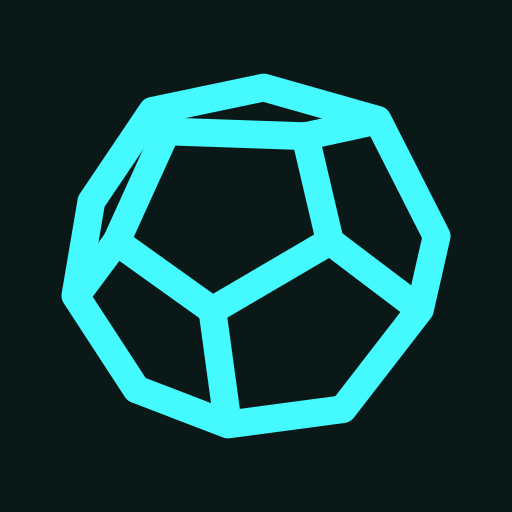
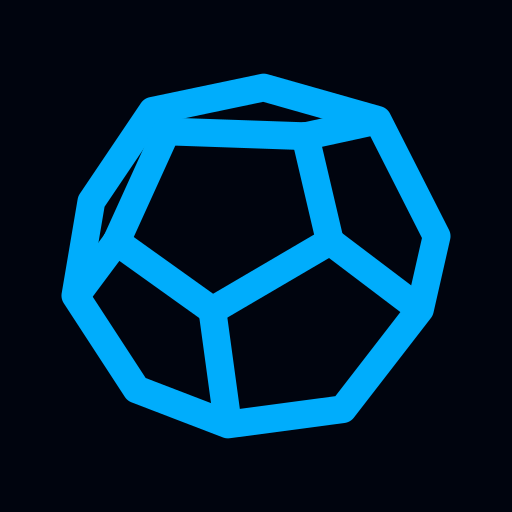
bolder: widen type scale, uppercase section labels, and amplify visual hierarchy
Add --font-xl (1.4rem) and --weight-semibold (600) tokens to stretch the
type scale from a 1.83x to 2.33x ratio. Page headings and modal titles
use --font-xl for clear structural hierarchy. Section labels (SideMenuSection,
Accordion, danger zone) use an uppercase overline treatment for visual
landmarks. Default theme shifts from cyan to sky blue to better reflect
the game's identity. Toast notifications gain status icons and a distinct
negative entrance animation. Node maxed state gets a secondary ring flash.
Tree canvas gains a subtle dot grid for spatial grounding.

Changed region(s): [[0.0938, 0.125, 0.9062, 0.875]]

diff --git a/src/lib/Toasts.svelte b/src/lib/Toasts.svelte
@@ -1,7 +1,9 @@
 <script lang="ts">
     import { onDestroy } from "svelte";
+    import { fly } from "svelte/transition";
     import { dismissToast, toastStore, type Toast } from "./toast";
     import { triggerHaptic } from "./hapticsStore";
+    import { CheckCircleIcon, WarningCircleIcon } from "phosphor-svelte";
 
     const timeouts = new Map<string, number>();
 
@@ -46,6 +48,7 @@
             style="--toast-duration: {toast.durationMs}ms"
             role="button"
             tabindex="0"
+            out:fly={{ y: 8, duration: 150 }}
             on:click={() => {
                 triggerHaptic();
                 dismissToast(toast.id);
@@ -57,6 +60,13 @@
                 }
             }}
         >
+            <span class="toast__icon" aria-hidden="true">
+                {#if toast.tone === "negative"}
+                    <WarningCircleIcon size={20} weight="fill" />
+                {:else}
+                    <CheckCircleIcon size={20} weight="fill" />
+                {/if}
+            </span>
             <span class="toast__message">{toast.message}</span>
         </div>
     {/each}
@@ -85,7 +95,7 @@
         pointer-events: auto;
         display: flex;
         align-items: center;
-        gap: var(--spacing-lg);
+        gap: var(--spacing-md);
         padding: var(--spacing-lg) calc(var(--spacing-lg) + var(--spacing-md));
         max-width: min(
             calc(100vw - 2 * var(--bar-pad) - var(--safe-left, 0px) - var(--safe-right, 0px)),
@@ -110,6 +120,8 @@
         background: var(--danger-bg);
         border-color: var(--danger-border);
         color: var(--danger-text);
+        animation-name: toast-enter-negative;
+        animation-duration: 0.2s;
     }
 
     .toast::after {
@@ -126,6 +138,17 @@
 
     .toast--negative::after {
         background: var(--danger-border);
+    }
+
+    .toast__icon {
+        display: flex;
+        align-items: center;
+        flex-shrink: 0;
+        color: var(--accent);
+    }
+
+    .toast--negative .toast__icon {
+        color: var(--danger-text);
     }
 
     .toast__message {

diff --git a/src/lib/NodeFlash.svelte b/src/lib/NodeFlash.svelte
@@ -1,11 +1,14 @@
 <script lang="ts">
     export let level: number;
     export let isLeaf: boolean = false;
+    export let isMaxed: boolean = false;
 
     let flashKey = 0;
     let prevLevel = level;
+    let justMaxed = false;
 
     $: if (level !== prevLevel) {
+        justMaxed = isMaxed && !justMaxed && level > prevLevel;
         prevLevel = level;
         flashKey++;
     }
@@ -15,6 +18,9 @@
     {#if flashKey > 0}
         <span class="node-flash" class:node-flash-hex={isLeaf}></span>
         <span class="node-ring" class:node-ring-hex={isLeaf}></span>
+        {#if justMaxed}
+            <span class="node-ring node-ring-outer" class:node-ring-hex={isLeaf}></span>
+        {/if}
     {/if}
 {/key}
 
@@ -70,6 +76,26 @@
         100% {
             opacity: 0;
             inset: -10px;
+        }
+    }
+
+    .node-ring-outer {
+        animation: node-ring-outer-expand 550ms ease-out 80ms forwards;
+        opacity: 0;
+    }
+
+    @keyframes node-ring-outer-expand {
+        0% {
+            opacity: 0.5;
+            inset: -2px;
+        }
+        50% {
+            opacity: 0.25;
+            inset: -20px;
+        }
+        100% {
+            opacity: 0;
+            inset: -18px;
         }
     }
 </style>

diff --git a/scripts/theme-defaults.ts b/scripts/theme-defaults.ts
@@ -1,16 +1,16 @@
 /**
- * Pre-computed theme colors for the default preset (Cyan: #44faff, h=198, c=0.14, l=0.9).
+ * Pre-computed theme colors for the default preset (Sky: #00adfc, h=234, c=0.18).
  * Used by static assets that can't call the runtime theme engine.
  *
- * THEME_BG: oklchToHex(BG_L*0.5 + SURFACE_L*0.5, c*0.14, h)
+ * THEME_BG: oklchToHex(0.10, max(c*0.22, 0.03), h)
  * - Used in index.html: <meta name="theme-color">
  *
- * THEME_ACCENT: oklchToHex(0.9, c, h)
+ * THEME_ACCENT: oklchToHex(0.7, c, h)
  * - Used in public/icon.svg: g { stroke } (dark mode)
  *
  * THEME_ACCENT_LIGHT: oklchToHex(0.45, c, h)
  * - Used in public/icon.svg: @media (light) g { stroke }
  */
-export const THEME_BG = "#0a1818";
-export const THEME_ACCENT = "#44faff";
-export const THEME_ACCENT_LIGHT = "#006a71";
+export const THEME_BG = "#00040e";
+export const THEME_ACCENT = "#00adfc";
+export const THEME_ACCENT_LIGHT = "#005ea8";

diff --git a/src/lib/TreeTabs.svelte b/src/lib/TreeTabs.svelte
@@ -628,11 +628,18 @@
         height: 100%;
         width: 100%;
         overflow: hidden;
-        background: radial-gradient(
-            circle at 50% calc(50% - (var(--tab-height) + var(--bar-pad)) / 2),
-            color-mix(in srgb, var(--bg) 20%, var(--surface)),
-            var(--bg) 100%
-        );
+        background:
+            radial-gradient(
+                circle at 50% calc(50% - (var(--tab-height) + var(--bar-pad)) / 2),
+                color-mix(in srgb, var(--bg) 20%, var(--surface)),
+                var(--bg) 100%
+            ),
+            radial-gradient(
+                circle,
+                color-mix(in srgb, var(--border-subtle) 30%, transparent) 0.75px,
+                transparent 0.75px
+            );
+        background-size: 100% 100%, 32px 32px;
         position: relative;
     }
 

diff --git a/src/lib/ThemeColorSelector.svelte b/src/lib/ThemeColorSelector.svelte
@@ -23,15 +23,15 @@
         h: number;
         c: number;
         labelKey:
+            | "theme.preset.sky"
             | "theme.preset.cyan"
-            | "theme.preset.blue"
             | "theme.preset.rose"
             | "theme.preset.amber"
             | "theme.preset.green"
             | "theme.preset.neutral";
     }[] = [
-        { ...DEFAULT_THEME_COLOR, labelKey: "theme.preset.cyan" },
-        { h: 260, c: 0.26, labelKey: "theme.preset.blue" },
+        { ...DEFAULT_THEME_COLOR, labelKey: "theme.preset.sky" },
+        { h: 198, c: 0.14, labelKey: "theme.preset.cyan" },
         { h: 145, c: 0.25, labelKey: "theme.preset.green" },
         { h: 350, c: 0.26, labelKey: "theme.preset.rose" },
         { h: 55, c: 0.24, labelKey: "theme.preset.amber" },

diff --git a/index.html b/index.html
@@ -8,8 +8,8 @@
     <link rel="apple-touch-icon" href="/apple-touch-icon-180x180.png" />
     <meta name="viewport" content="width=device-width, initial-scale=1.0, viewport-fit=cover" />
     <meta name="color-scheme" content="light dark" />
-    <!-- oklchToHex(BG_L*0.5+SURFACE_L*0.5, c*0.14, h) for default preset; see themeApply.ts syncThemeColorMeta -->
-    <meta name="theme-color" content="#0a1818" />
+    <!-- oklchToHex(0.10, max(c*0.22, 0.03), h) for default preset; see themeApply.ts syncThemeColorMeta -->
+    <meta name="theme-color" content="#00040e" />
     <meta name="mobile-web-app-capable" content="yes" />
     <meta name="apple-mobile-web-app-capable" content="yes" />
     <meta name="apple-mobile-web-app-status-bar-style" content="black-translucent" />

diff --git a/src/lib/themeColorStore.ts b/src/lib/themeColorStore.ts
@@ -7,8 +7,8 @@ export interface ThemeColor {
     l?: number;
 }
 
-/** Default source color: matches the first preset (Cyan: #44faff) */
-export const DEFAULT_THEME_COLOR: ThemeColor = { h: 198, c: 0.14, l: 0.9 };
+/** Default source color: matches the game brand (Sky: #00adfc, derived from Run! Goddess icon). */
+export const DEFAULT_THEME_COLOR: ThemeColor = { h: 234, c: 0.18 };
 
 function getThemeColor(): ThemeColor {
     const stored = getItem("theme-color");

diff --git a/src/lib/Tree.svelte b/src/lib/Tree.svelte
@@ -400,7 +400,7 @@
             const filter = `var(--capture-link-filter, var(--node-brightness-available))`;
             return `stroke: ${color}; filter: ${filter};`;
         }
-        return `stroke: ${REGION_STROKE_COLOR[region]}; filter: none;`;
+        return `stroke: ${REGION_STROKE_COLOR[region]}; filter: drop-shadow(0 0 3px ${REGION_STROKE_COLOR[region]});`;
     }
 
     let renderNodes: RenderNode[] = [];

diff --git a/src/lib/SideMenuSection.svelte b/src/lib/SideMenuSection.svelte
@@ -29,9 +29,11 @@
 
     .side-menu-section__title {
         margin: 0;
-        font-size: var(--font-base);
-        letter-spacing: var(--tracking);
-        color: var(--text-disabled);
+        font-size: var(--font-sm);
+        font-weight: var(--weight-semibold);
+        letter-spacing: 0.06em;
+        text-transform: uppercase;
+        color: var(--text-muted);
     }
 
     .side-menu-section__action {

diff --git a/test/colorVisualReview.ui.ts b/test/colorVisualReview.ui.ts
@@ -23,8 +23,8 @@ const THEME_KEY = "rg-backpack-planner-theme-color";
 const DARK_KEY = "rg-backpack-planner-dark-mode";
 
 const PRESETS = [
+    { name: "sky",     h: 234, c: 0.18 },
     { name: "cyan",    h: 198, c: 0.14 },
-    { name: "blue",    h: 260, c: 0.26 },
     { name: "rose",    h: 350, c: 0.26 },
     { name: "amber",   h: 55,  c: 0.24 },
     { name: "neutral", h: 260, c: 0.02 },

diff --git a/src/app.css b/src/app.css
@@ -256,6 +256,11 @@ textarea,
     100% { opacity: 1; transform: translateY(0) scale(1); }
 }
 
+@keyframes toast-enter-negative {
+    0% { opacity: 0; transform: translateY(4px) scale(0.97); }
+    100% { opacity: 1; transform: translateY(0) scale(1); }
+}
+
 @keyframes toast-progress {
     from { transform: scaleX(1); }
     to { transform: scaleX(0); }

diff --git a/src/lib/Accordion.svelte b/src/lib/Accordion.svelte
@@ -75,8 +75,11 @@
 
     .accordion-title {
         flex: 1;
-        font-weight: var(--weight-bold);
-        color: var(--text);
+        font-size: var(--font-sm);
+        font-weight: var(--weight-semibold);
+        letter-spacing: 0.06em;
+        text-transform: uppercase;
+        color: var(--text-muted);
     }
 
     .accordion-arrow {
